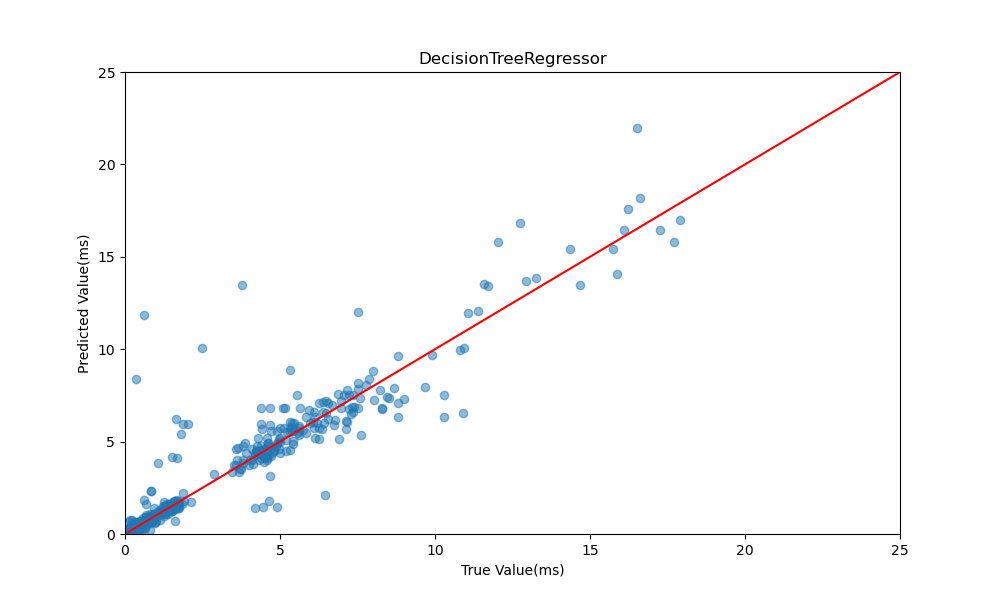
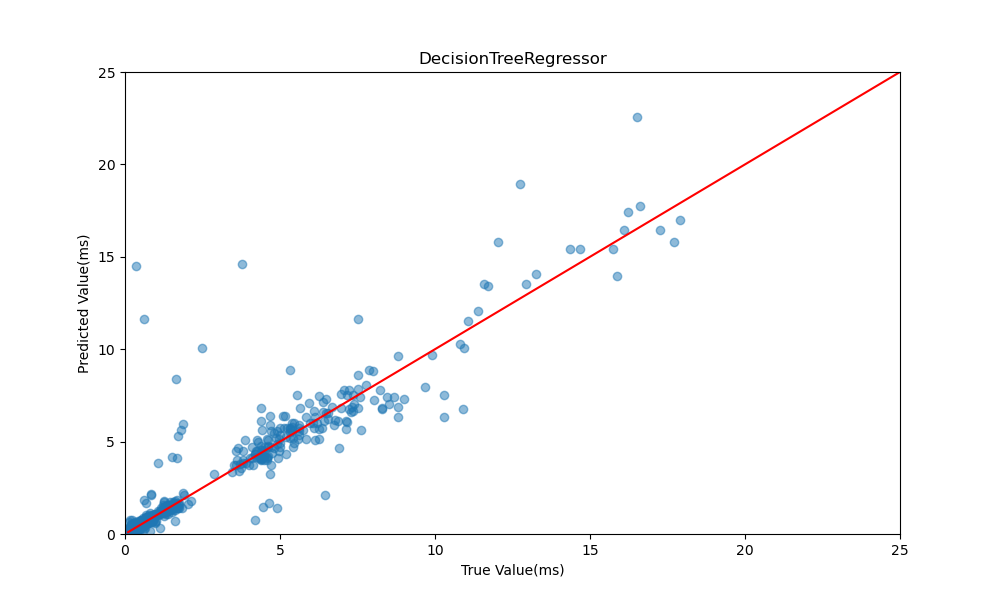
4.18

diff --git a/data_analyse/model_build.py b/data_analyse/model_build.py
@@ -4,6 +4,7 @@ import sklearn
 from sklearn.model_selection import train_test_split, learning_curve
 from sklearn.linear_model import LinearRegression, Ridge, Lasso
 from sklearn.ensemble import RandomForestRegressor, GradientBoostingRegressor, ExtraTreesRegressor, AdaBoostRegressor
+from sklearn.neighbors import KNeighborsRegressor
 from sklearn.preprocessing import StandardScaler, MinMaxScaler
 from sklearn.svm import SVR
 from sklearn.metrics import mean_squared_error, r2_score, mean_absolute_error
@@ -22,7 +23,8 @@ df = pd.read_csv('../data_analyse/data_result/00-all_data.csv')
 # Split the data into features and target
 X = df.drop('avg-latency(ms)', axis=1)
 column_names = X.columns
-scaler = MinMaxScaler()
+# scaler = MinMaxScaler()
+scaler = StandardScaler()
 X = scaler.fit_transform(X)
 y = df['avg-latency(ms)']
 
@@ -38,19 +40,20 @@ def train_and_evaluate_model(model, X_train, y_train, X_test, y_test):
     mse = mean_squared_error(y_test, y_pred)
     mae = mean_absolute_error(y_test, y_pred)
     r2 = r2_score(y_test, y_pred)
+    mape = np.mean(np.abs((y_test - y_pred) / y_test))
 
-    mape = np.mean(np.abs((y_test - y_pred) / y_test)) * 100
     model_performance[model_names[model.__class__.__name__]] = {
+        'R2': r2,
         'MSE': mse,
         'MAE': mae,
-        'R2': r2,
         "MAPE": mape
     }
+
     print(f'Model: {model.__class__.__name__}')
-    print(f'Mean Squared Error: {mse}')
-    print(f'Mean Absolute Error: {mae}')
-    print(f'R-squared: {r2}')
-    print(f'Mean Absolute Percentage Error: {mape}\n')
+    print(f'R2: {r2:.5f}')
+    print(f'MSE: {mse:.5f}')
+    print(f'MAE: {mae:.5f}')
+    print(f'MAPE: {mape:.5f}\n')
 
     plt.figure(figsize=(10, 6))
     plt.scatter(y_test, y_pred, alpha=0.5)
@@ -68,21 +71,24 @@ def train_and_evaluate_model(model, X_train, y_train, X_test, y_test):
 
 # List of models to train
 models = [
-    # LinearRegression(),
-    # Ridge(),
-    #  SVR(),
-    # DecisionTreeRegressor(),
+    LinearRegression(),
+    SVR(),
+    KNeighborsRegressor(),
+    DecisionTreeRegressor(),
+
     # GradientBoostingRegressor(),
     # ExtraTreesRegressor(),
-    RandomForestRegressor(),
-    AdaBoostRegressor(base_estimator=DecisionTreeRegressor()),
-    CascadeForestRegressor()
+
+    # RandomForestRegressor(),
+    # AdaBoostRegressor(base_estimator=DecisionTreeRegressor()),
+    # CascadeForestRegressor()
 ]
 
 model_names = {
     'LinearRegression': 'LR',
     'Ridge': 'Ridge',
     'SVR': 'SVR',
+    'KNeighborsRegressor': 'KNN',
     'DecisionTreeRegressor': 'DTR',
     'RandomForestRegressor': 'RFR',
     'GradientBoostingRegressor': 'GBR',
@@ -95,23 +101,23 @@ model_names = {
 for model in models:
     train_and_evaluate_model(model, X_train, y_train, X_test, y_test)
 
-print(model_performance)
 
-model = RandomForestRegressor()
-model.fit(X, y)
-
-# 显示特征重要性
-feature_importances = pd.DataFrame(model.feature_importances_, index=column_names, columns=['Importance']).sort_values(
-    'Importance', ascending=False)
-print(feature_importances)
-# 将特征重要性可视化
-plt.figure(figsize=(10, 6))
-plt.barh(feature_importances.index, feature_importances['Importance'])
-plt.xlabel('Importance')
-plt.ylabel('Feature')
-plt.title('Feature Importance')
-plt.subplots_adjust(left=0.25)
-plt.savefig(f'../data_analyse/pic/{time}_feature_importance.png')
+def plot_importances():
+    model = RandomForestRegressor()
+    model.fit(X, y)
+    # 显示特征重要性
+    feature_importances = pd.DataFrame(model.feature_importances_, index=column_names,
+                                       columns=['Importance']).sort_values(
+        'Importance', ascending=False)
+    print(feature_importances)
+    # 将特征重要性可视化
+    plt.figure(figsize=(10, 6))
+    plt.barh(feature_importances.index, feature_importances['Importance'])
+    plt.xlabel('Importance')
+    plt.ylabel('Feature')
+    plt.title('Feature Importance')
+    plt.subplots_adjust(left=0.25)
+    plt.savefig(f'../data_analyse/pic/{time}_feature_importance.png')
 
 
 def plot_model_performance(model_performance):
@@ -119,14 +125,16 @@ def plot_model_performance(model_performance):
     mse_values = [model_performance[model]['MSE'] for model in labels]
     mae_values = [model_performance[model]['MAE'] for model in labels]
     r2_values = [model_performance[model]['R2'] for model in labels]
+    mape_values = [model_performance[model]['MAPE'] for model in labels]
 
     x = np.arange(len(labels))  # the label locations
-    width = 0.2  # the width of the bars
+    width = 0.1  # the width of the bars
 
-    fig, ax = plt.subplots(figsize=(15, 6))
-    rects1 = ax.bar(x - width, mse_values, width, label='MSE')
-    rects2 = ax.bar(x, mae_values, width, label='MAE')
-    rects3 = ax.bar(x + width, r2_values, width, label='R2')
+    fig, ax = plt.subplots(figsize=(12, 6))  # 宽度是15英寸，高度是6英寸。
+    rects1 = ax.bar(x - 1.5 * width, mse_values, width, label='MSE')
+    rects2 = ax.bar(x - 0.5 * width, mae_values, width, label='MAE')
+    rects3 = ax.bar(x + 0.5 * width, mape_values, width, label='MAPE')
+    rects4 = ax.bar(x + 1.5 * width, r2_values, width, label='R2')
 
     # Add some text for labels, title and custom x-axis tick labels, etc.
     ax.set_xlabel('Models')

diff --git a/data_analyse/model_loss.py b/data_analyse/model_loss.py
@@ -1,0 +1,80 @@
+import numpy as np
+import pandas as pd
+import sklearn
+from sklearn.model_selection import train_test_split, learning_curve
+from sklearn.linear_model import LinearRegression, Ridge, Lasso
+from sklearn.ensemble import RandomForestRegressor, GradientBoostingRegressor, ExtraTreesRegressor, AdaBoostRegressor
+from sklearn.preprocessing import StandardScaler, MinMaxScaler
+from sklearn.svm import SVR
+from sklearn.metrics import mean_squared_error, r2_score, mean_absolute_error
+import matplotlib.pyplot as plt
+from deepforest import CascadeForestRegressor
+from sklearn.tree import DecisionTreeRegressor
+
+# 打印scikit-learn的版本
+print(sklearn.__version__)
+time = "00-all_data"
+df = pd.read_csv('../data_analyse/data_result/00-all_data.csv')
+
+# 分离特征和目标变量
+X = df.drop('avg-latency(ms)', axis=1)
+column_names = X.columns
+# scaler = MinMaxScaler()
+scaler = StandardScaler()
+X = scaler.fit_transform(X)
+y = df['avg-latency(ms)']
+
+# 数据切分
+X_train, X_test, y_train, y_test = train_test_split(X, y, test_size=0.2, random_state=27)
+
+
+# 定义模型训练和评估函数
+def train_and_evaluate_model(model, X_train, y_train, X_test, y_test):
+    model.fit(X_train, y_train)
+    y_pred = model.predict(X_test).ravel()
+    mse = mean_squared_error(y_test, y_pred)
+    mae = mean_absolute_error(y_test, y_pred)
+    r2 = r2_score(y_test, y_pred)
+
+    mape = np.mean(np.abs((y_test - y_pred) / y_test)) * 100
+
+    print(f'R2: {r2:.5f}')
+    print(f'MSE: {mse:.5f}')
+    print(f'MAE: {mae:.5f}')
+    print(f'MAPE: {mape:.5f}\n')
+
+
+# 绘制学习曲线
+def plot_learning_curves(model, X_train, y_train, X_test, y_test):
+    print(f"Plotting Learning Curves for {model.__class__.__name__}...")
+    print(len(X_train))
+    train_errors, test_errors = [], []
+    for m in range(1, len(X_train), 100):
+        print(m)
+        model.fit(X_train[:m], y_train[:m])
+        y_train_predict = model.predict(X_train[:m])
+        y_test_predict = model.predict(X_test)
+        train_errors.append(mean_squared_error(y_train[:m], y_train_predict))
+        test_errors.append(mean_squared_error(y_test, y_test_predict))
+
+    plt.plot(np.sqrt(train_errors), "r-+", linewidth=2, label="Train")
+    plt.plot(np.sqrt(test_errors), "b-", linewidth=3, label="Test")
+    plt.legend(loc="upper right", fontsize=14)
+    plt.xlabel("Training set size", fontsize=14)
+    plt.ylabel("RMSE", fontsize=14)
+    plt.title("Learning Curves for " + model.__class__.__name__)
+    plt.show()
+    print(f"Learning Curves for {model.__class__.__name__} - Plotting Complete")
+
+
+# 定义模型列表
+models = [
+    RandomForestRegressor(),
+    AdaBoostRegressor(base_estimator=DecisionTreeRegressor()),
+    CascadeForestRegressor()
+]
+
+# 训练并评估每个模型，同时绘制学习曲线
+for model in models:
+    train_and_evaluate_model(model, X_train, y_train, X_test, y_test)
+    # plot_learning_curves(model, X_train, y_train, X_test, y_test)

diff --git a/data_analyse/data_processing.py b/data_analyse/data_processing.py
@@ -1,0 +1,7 @@
+import pandas as pd
+
+# Converting the string data to a dataframe
+df = pd.read_csv('data_result/00-all_data.csv')
+
+# 删除cs (context switches/s)列
+df = df.drop('cs (context switches/s)', axis=1)
